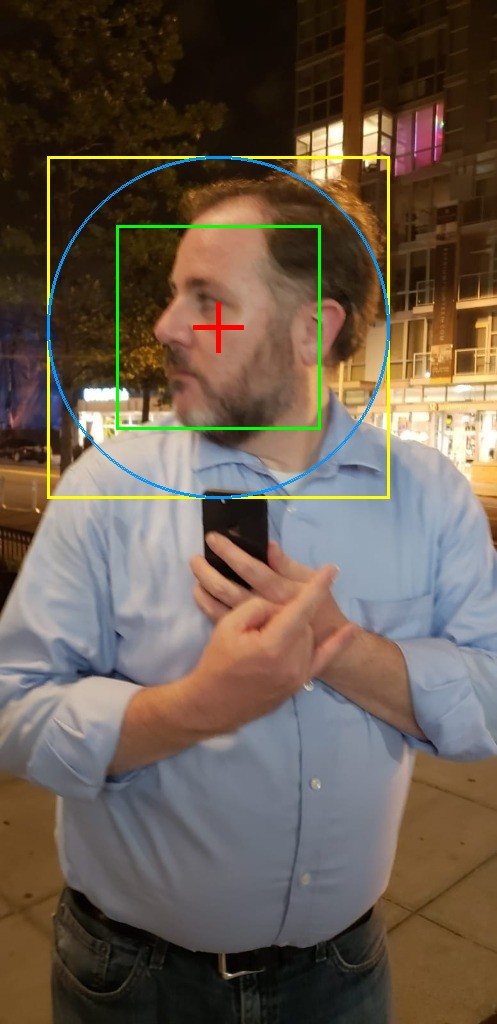
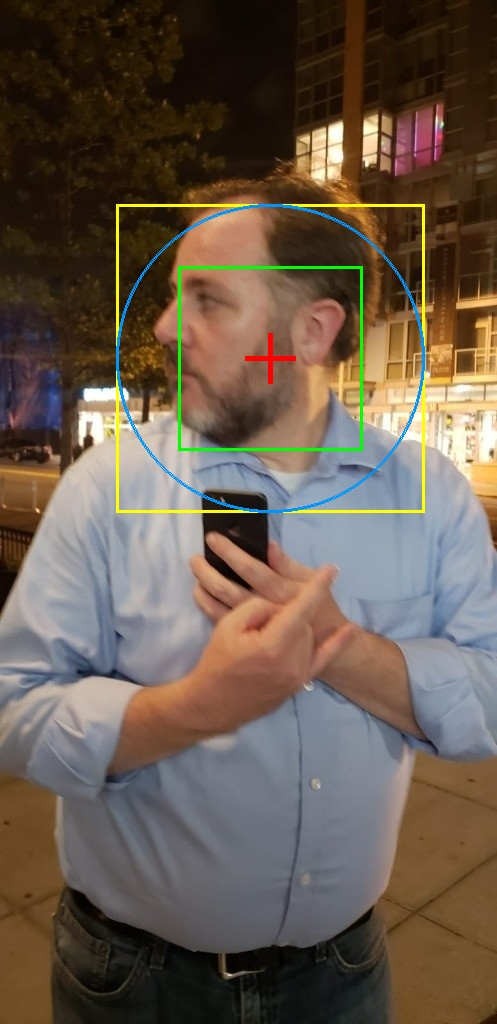
fix(headshot): update paul_richter headshot & deployment

Changed region(s): [[0.0905, 0.125, 0.8753, 0.5], [0.4829, 0.3125, 0.6036, 0.375]]

diff --git a/src/data/sampleData.js b/src/data/sampleData.js
@@ -1,4 +1,4 @@
-export const BUILD_TIMESTAMP = 1788754968494;
+export const BUILD_TIMESTAMP = 1788755213700;
 // Real Wedding Guest List Data - Auto-updated via Host Admin Suite
 export const COHORT_COLORS = {
   "The Couple": "#38bdf8",

diff --git a/scripts/recalibrate_with_opencv.py b/scripts/recalibrate_with_opencv.py
@@ -51,7 +51,7 @@ GUEST_CALIBRATION_SPECS = {
     "poukhan_philavanh_anthony": {"raw_source": "raw_sources/poukhan_philavanh_anthony__orig_media__1788716292.jpg", "cx_pct": 0.490, "cy_pct": 0.500, "face_h_px": 200},
     "clyde_tsai": {"raw_source": "raw_sources/clyde_tsai__orig_media__1788716815.jpg", "cx_pct": 0.550, "cy_pct": 0.480, "face_h_px": 200},
     "danielle_sullivan": {"raw_source": "raw_sources/danielle_sullivan__orig_media__1788717156.jpg", "cx_pct": 0.440, "cy_pct": 0.460, "face_h_px": 140, "allow_subcrop": True},
-    "paul_richter": {"raw_source": "raw_sources/paul_richter__orig_media__1788718085.jpg", "cx_pct": 0.440, "cy_pct": 0.320, "face_h_px": 200},
+    "paul_richter": {"raw_source": "raw_sources/paul_richter__orig_media.jpg", "cx_pct": 0.545, "cy_pct": 0.350, "face_h_px": 180},
     "katie_richter": {"raw_source": "raw_sources/katie_richter__orig_media__1788718115.jpg", "cx_pct": 0.265, "cy_pct": 0.480, "face_h_px": 200},
     "liz_scott": {"raw_source": "raw_sources/liz_scott__orig_media.jpg", "cx_pct": 0.855, "cy_pct": 0.350, "face_h_px": 110},
     "chrissy_fiore": {"raw_source": "raw_sources/chrissy_fiore__orig_media__1788718987.jpg", "cx_pct": 0.505, "cy_pct": 0.415, "face_h_px": 200},
